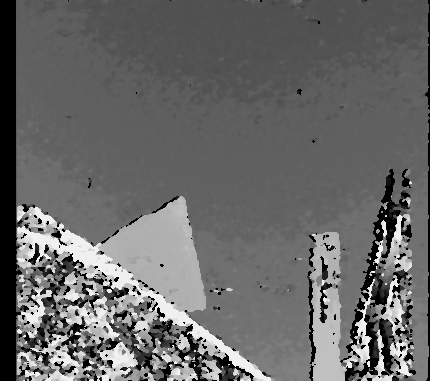
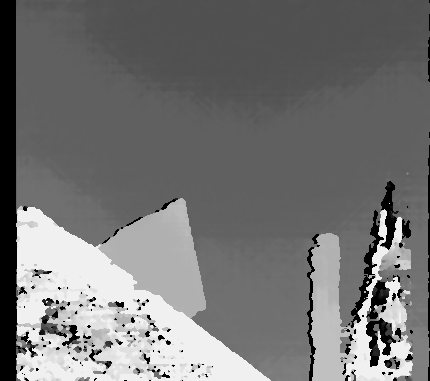
Finished IOSB Task

diff --git a/src/task.cpp b/src/task.cpp
@@ -24,7 +24,7 @@ using namespace cv;
 #define HELP(err_str)           err_str =  "Usage: task [bm] [sgbm]\n\n"                                    \
                                            "Options:\n"                                                     \
                                            "   bm:   Use \"Block Matching\" to compute a disparity map \n"  \
-                                           "   sgbm: Use \"Semi-Global Block Matching\" to compute a disparity amp\n" 
+                                           "   sgbm: Use \"Semi-Global Block Matching\" to compute a disparity map\n" 
 
 int main(int argc, char **argv)
 {

diff --git a/include/task.hpp b/include/task.hpp
@@ -79,6 +79,6 @@
 #define TASK_SGBM_MIN_DISP_VAL              0
 #define TASK_SGBM_MAX_DISP_VAL              16
 #define TASK_SGBM_BOX_SIZE                  3
-#define TASK_SGBM_WEIGHT_I                  20
-#define TASK_SGBM_WEIGHT_II                 30
+#define TASK_SGBM_WEIGHT_I                  200
+#define TASK_SGBM_WEIGHT_II                 300
 

diff --git a/Readme.md b/Readme.md
@@ -1,0 +1,7 @@
+IOSB-Task
+
+Type cmake . to build the executable.
+Invoke the executable from the top level project directory
+with the following command:
+
+exec {--bm | --sgbm | --bm --sgbm}
